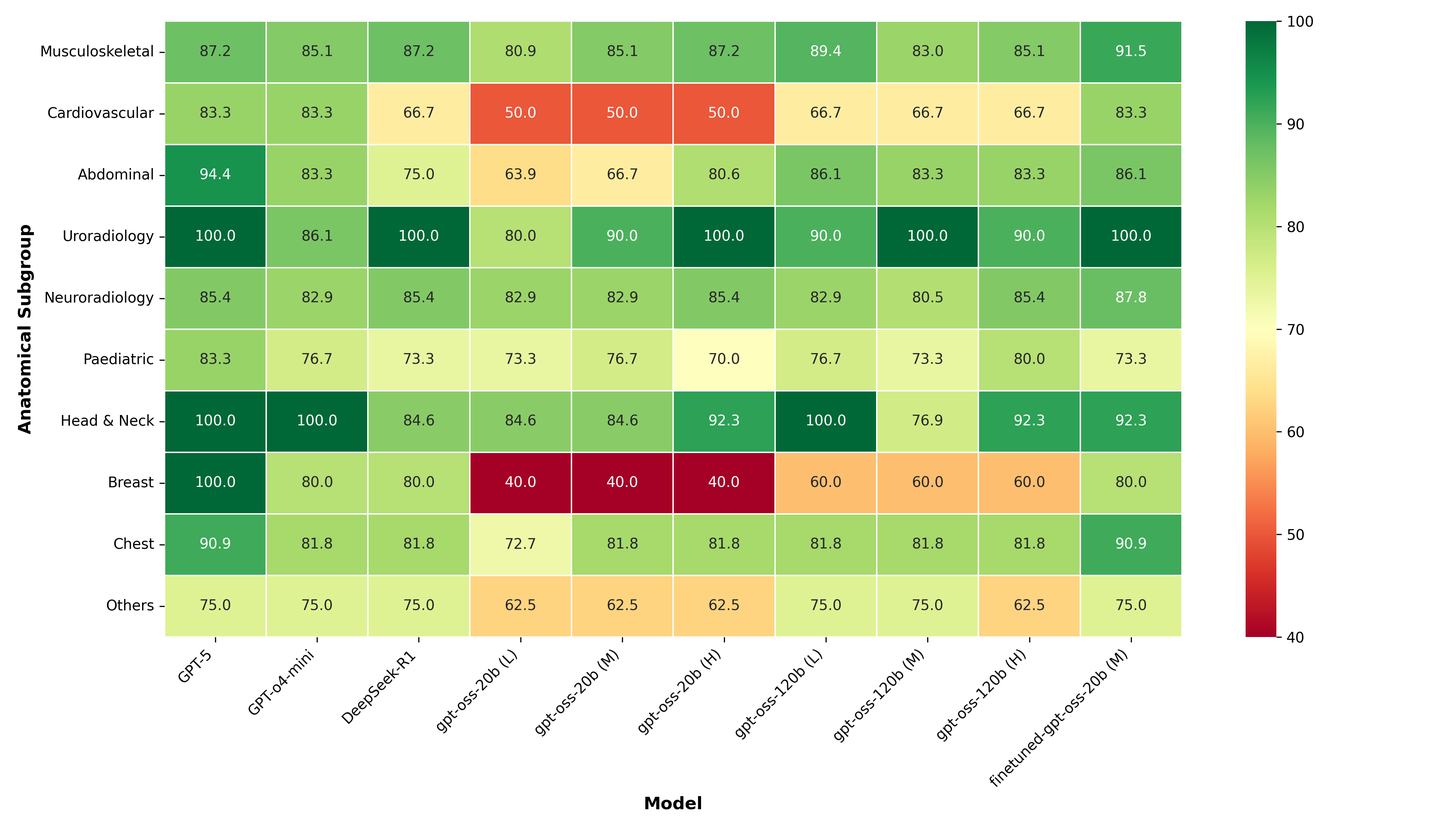
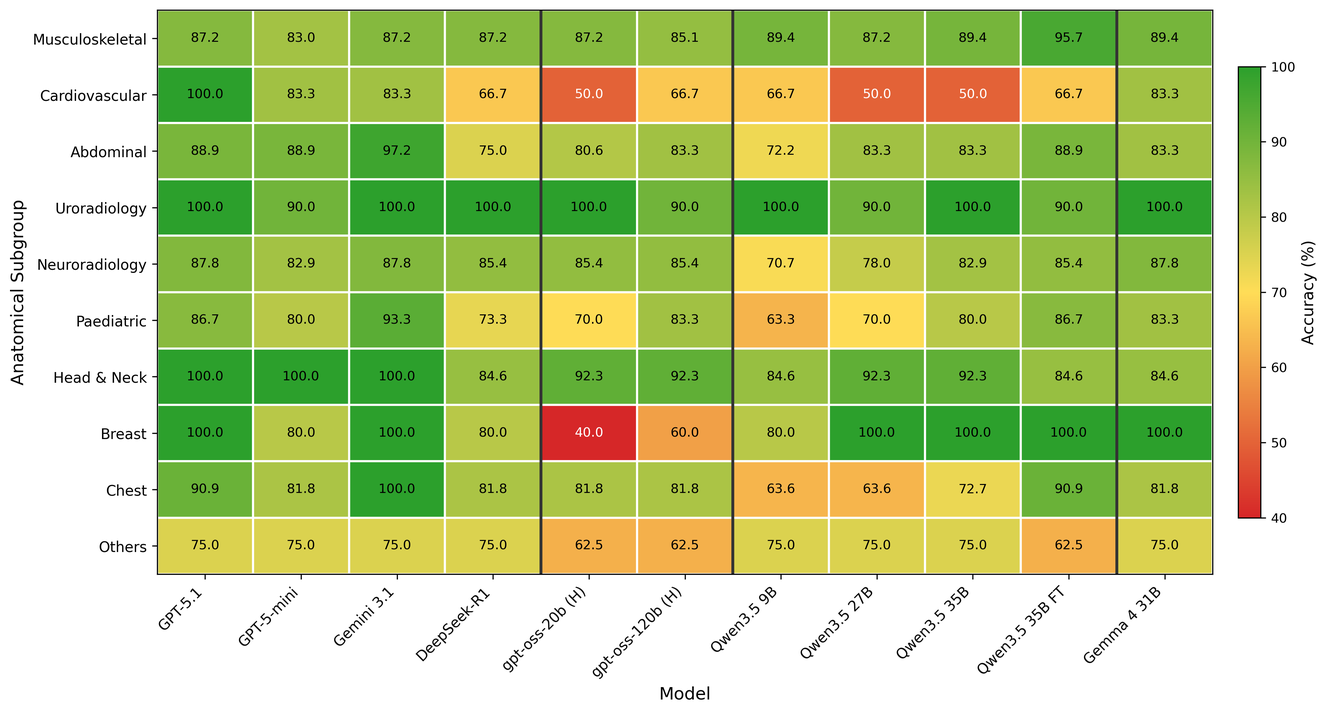
Update paper figures with corrected Qwen data and Gemma 4
Regenerated fig2_combined.png (4-panel: barplot, violin, finetune,
radar) and fig3.png (heatmap) from csvs/final_csvs/ which includes
the Qwen row-shift fix and Gemma 4 31B results.

diff --git a/paper/main.tex b/paper/main.tex
@@ -85,7 +85,7 @@ E-mail: bowang@vectorinstitute.ai}% <-this % stops an unwanted space
 
 \IEEEtitleabstractindextext{%
 \begin{abstract}
-Large language models (LLMs) have rapidly advanced in clinical decision-making, yet the deployment of proprietary systems is hindered by privacy concerns and reliance on cloud-based infrastructure. Open-source alternatives allow local inference but often require large model sizes that limit their use in resource-constrained clinical settings. Here, we benchmark two on-device LLMs, gpt-oss-20b and gpt-oss-120b, across three representative clinical tasks: general disease diagnosis, specialty-specific (ophthalmology) diagnosis and management, and simulation of human expert grading and evaluation. We compare their performance with state-of-the-art proprietary models (GPT-5 and o4-mini) and a leading open-source model (DeepSeek-R1), and we further evaluate the adaptability of on-device systems by fine-tuning gpt-oss-20b on general diagnostic data. Across tasks, gpt-oss models achieve performance comparable to or exceeding DeepSeek-R1 and o4-mini despite being substantially smaller. In addition, fine-tuning remarkably improves the diagnostic accuracy of gpt-oss-20b, enabling it to approach the performance of GPT-5. These findings highlight the potential of on-device LLMs to deliver accurate, adaptable, and privacy-preserving clinical decision support, offering a practical pathway for broader integration of LLMs into routine clinical practice.
+Large language models (LLMs) have rapidly advanced in clinical decision-making, yet the deployment of proprietary systems is hindered by privacy concerns and reliance on cloud-based infrastructure. Open-source alternatives allow local inference but often require large model sizes that limit their use in resource-constrained clinical settings. Here, we benchmark on-device LLMs from the gpt-oss (20b, 120b) and Qwen3.5 (9B, 27B, 35B) families across three representative clinical tasks: general disease diagnosis, specialty-specific (ophthalmology) diagnosis and management, and simulation of human expert grading and evaluation. We compare their performance with state-of-the-art proprietary models (GPT-5.1, GPT-5-mini, and Gemini 3.1 Pro) and a leading open-source model (DeepSeek-R1), and we further evaluate the adaptability of on-device systems by fine-tuning gpt-oss-20b and Qwen3.5-35B on general diagnostic data. Across tasks, on-device models achieve performance comparable to or exceeding DeepSeek-R1 and GPT-5-mini despite being substantially smaller. In addition, fine-tuning remarkably improves diagnostic accuracy, with the fine-tuned Qwen3.5-35B reaching 88.4\% and approaching the proprietary GPT-5.1 (88.9\%). These findings highlight the potential of on-device LLMs to deliver accurate, adaptable, and privacy-preserving clinical decision support, offering a practical pathway for broader integration of LLMs into routine clinical practice.
 \end{abstract}
 
 %%
@@ -119,8 +119,8 @@ These limitations underscore the need for smaller, efficient models that retain 
 
 
 % our contributions 
-The recent advancements in on-device LLMs offer a promising solution to the challenges posed by both large proprietary and open-source models~\cite{zhu2025empowering, evangelista2026graphrag}. In particular, the gpt-oss family~\cite{gpt-oss} represents this new generation of efficient and privacy-preserving architectures. The gpt-oss-20b model and its larger counterpart, gpt-oss-120b, are designed and optimized for deployment on a single consumer GPU with 16GB and 80GB memory, respectively. 
-This study aims to determine whether on-device LLMs can be practically used for clinical decision support. We systematically benchmark gpt-oss-20b and gpt-oss-120b models across three representative tasks: general disease diagnosis, (ophthalmology) specialty-specific disease diagnosis and management, and simulation of human clinician judgement and evaluation (Fig.~\ref{fig:1}). To establish a clear performance landscape, we compare these on-device models against leading proprietary models (GPT-5 and o4-mini) and a strong open-source model (DeepSeek-R1). 
+The recent advancements in on-device LLMs offer a promising solution to the challenges posed by both large proprietary and open-source models~\cite{zhu2025empowering, evangelista2026graphrag}. In particular, the gpt-oss family~\cite{gpt-oss} represents this new generation of efficient and privacy-preserving architectures. The gpt-oss-20b model and its larger counterpart, gpt-oss-120b, are designed and optimized for deployment on a single consumer GPU with 16GB and 80GB memory, respectively. Similarly, the Qwen3.5 family of open-weight models (9B, 27B, and 35B parameters) offers an alternative on-device architecture suitable for resource-constrained deployment.
+This study aims to determine whether on-device LLMs can be practically used for clinical decision support. We systematically benchmark gpt-oss (20b, 120b) and Qwen3.5 (9B, 27B, 35B) models across three representative tasks: general disease diagnosis, (ophthalmology) specialty-specific disease diagnosis and management, and simulation of human clinician judgement and evaluation (Fig.~\ref{fig:1}). To establish a clear performance landscape, we compare these on-device models against leading proprietary models (GPT-5.1, GPT-5-mini, and Gemini 3.1 Pro) and a strong open-source model (DeepSeek-R1). 
 
 
 \begin{figure}[htbp]
@@ -149,21 +149,21 @@ To ensure rigorous zero-shot evaluation and prevent data leakage, all three benc
 
 \begin{figure}[!htbp]
 \centering
-\vspace{-6mm}
+\enlargethispage{2cm}
+\vspace*{-1.5cm}
 % \includegraphics[scale=0.25]{main-imgs/fig2.png}
 % \includegraphics[scale=0.128]{main-imgs/fig2.png}
-\includegraphics[scale=0.128]{main-imgs/fig2_combined.png}
-\vspace{-8mm}
+\includegraphics[width=\textwidth,height=0.92\textheight,keepaspectratio]{main-imgs/fig2_combined.png}
 \caption{\textbf{Zero-shot and fine-tuning performance of on-device LLMs.}
 \textbf{a,} Results of LLM-as-a-generalist: diagnosis accuracy on a wide range of radiological cases (N=207).
 \textbf{b,} Results of LLM-as-a-clinical-judge: violin plots comparing the relative error for disease diagnosis and treatment open-ended question assessment (N=1315).
-\textbf{c,} Fine-tuned Qwen 3.5 35B model accuracy compared to proprietary LLMs on the disease differential diagnosis task.
+\textbf{c,} Fine-tuned Qwen3.5-35B model accuracy compared to proprietary LLMs on the disease differential diagnosis task.
 \textbf{d,} Model performance across 10 radiological sub-specialties.
 }\label{fig:2}
 \end{figure}
 
 \subsection*{On-device LLMs show competitive zero-shot performance}
-Fig.~\ref{fig:2}a compares the diagnostic accuracy of the evaluated models for general disease diagnosis across radiological case reports (Table~\ref{tab:generalist_results}). Among the proprietary frontier models, Gemini 3.1 Pro achieved the highest overall accuracy of 91.8\% (95\% CI: 87.2--94.8\%), followed closely by GPT-5.2 at 90.8\% (95\% CI: 86.1--94.0\%; $p>0.05$). The on-device models demonstrated strong competitiveness relative to these baselines. Specifically, the gpt-oss-120b (L) model achieved an average accuracy of 84.1\% (95\% CI: 78.5--88.4\%), effectively matching the efficient proprietary model GPT-5-mini (84.5\%; 95\% CI: 79.0--88.8\%; $p>0.05$) and surpassing the leading open-source model DeepSeek-R1 (81.6\%; 95\% CI: 75.8--86.3\%). Furthermore, the highly efficient gpt-oss-20b (H) model secured an accuracy of 80.7\% (95\% CI: 74.8--85.5\%), matching the performance of the significantly larger DeepSeek-R1 ($p>0.05$). Among the Qwen3.5 on-device models, the 27B variant achieved the highest accuracy at 71.5\% (95\% CI: 65.0--77.2\%), statistically comparable to gpt-oss-20b (L) (74.4\%; $p>0.05$).
+Fig.~\ref{fig:2}a compares the diagnostic accuracy of the evaluated models for general disease diagnosis across radiological case reports (Table~\ref{tab:generalist_results}). Among the proprietary frontier models, Gemini 3.1 Pro achieved the highest overall accuracy of 91.3\% (95\% CI: 86.7--94.4\%), followed by GPT-5.1 at 88.9\% (95\% CI: 83.9--92.5\%). The on-device models demonstrated strong competitiveness relative to these baselines. Specifically, the gpt-oss-120b (H) model achieved an accuracy of 83.1\% (95\% CI: 77.4--87.6\%), while the highly efficient gpt-oss-20b (H) model secured 80.7\% (95\% CI: 74.8--85.5\%), matching the performance of the significantly larger DeepSeek-R1 (81.6\%; 95\% CI: 75.8--86.3\%; $p>0.05$). Among the Qwen3.5 on-device models, the 35B variant achieved the highest base accuracy at 84.5\% (95\% CI: 79.0--88.8\%), matching GPT-5-mini (84.1\%; 95\% CI: 78.5--88.4\%; $p>0.05$) and exceeding DeepSeek-R1. The Qwen3.5 27B model achieved 80.2\% (95\% CI: 74.2--85.1\%), comparable to both gpt-oss-20b (H) and DeepSeek-R1 ($p>0.05$), while the smallest 9B variant reached 75.8\% (95\% CI: 69.6--81.2\%).
 
 \begin{table}[!htbp]
 \centering
@@ -172,37 +172,36 @@ Fig.~\ref{fig:2}a compares the diagnostic accuracy of the evaluated models for g
 \caption{\textbf{LLM-as-a-Generalist Task: Comparative diagnostic accuracy (\%) across radiological anatomical subgroups.}
 Performance is evaluated using self-consistency majority voting. The best result per row is \textbf{bolded}. Full 95\% CIs are provided in Supplementary Table~1.}
 \label{tab:generalist_results}
-\begin{tabular}{l ccc @{\hskip 6pt} c @{\hskip 6pt} ccc @{\hskip 6pt} ccc @{\hskip 6pt} ccc}
+\begin{tabular}{l ccc @{\hskip 6pt} c @{\hskip 6pt} cc @{\hskip 6pt} cccc}
 \toprule
-& \multicolumn{3}{c}{\textbf{Proprietary}} & \textbf{Open} & \multicolumn{3}{c}{\textbf{gpt-oss-20b}} & \multicolumn{3}{c}{\textbf{gpt-oss-120b}} & \multicolumn{3}{c}{\textbf{Qwen3.5}} \\
-\cmidrule(lr){2-4} \cmidrule(lr){5-5} \cmidrule(lr){6-8} \cmidrule(lr){9-11} \cmidrule(lr){12-14}
+& \multicolumn{3}{c}{\textbf{Proprietary}} & \textbf{Open} & \multicolumn{2}{c}{\textbf{gpt-oss}} & \multicolumn{4}{c}{\textbf{Qwen3.5}} \\
+\cmidrule(lr){2-4} \cmidrule(lr){5-5} \cmidrule(lr){6-7} \cmidrule(lr){8-11}
 \textbf{Category} &
-\textbf{GPT-5.2} & \textbf{GPT-5-mini} & \textbf{Gemini-3.1} & \textbf{DS-R1} &
-\textbf{L} & \textbf{M} & \textbf{H} &
-\textbf{L} & \textbf{M} & \textbf{H} &
-\textbf{35B} & \textbf{27B} & \textbf{9B} \\
+\textbf{GPT-5.1} & \textbf{GPT-5-mini} & \textbf{Gemini-3.1} & \textbf{DS-R1} &
+\textbf{20b} & \textbf{120b} &
+\textbf{9B} & \textbf{27B} & \textbf{35B} & \textbf{35B-FT} \\
 \midrule
-Musculoskeletal   & \acc{87.2} & \acc{83.0} & \acc{87.2} & \acc{87.2} & \acc{80.9} & \acc{85.1} & \acc{87.2} & \best{\acc{89.4}} & \acc{83.0} & \acc{85.1} & \acc{72.3} & \acc{74.5} & \acc{76.6} \\
-Cardiovascular    & \best{\acc{100.0}} & \acc{83.3} & \acc{83.3} & \acc{66.7} & \acc{50.0} & \acc{50.0} & \acc{50.0} & \acc{66.7} & \acc{66.7} & \acc{66.7} & \acc{50.0} & \acc{50.0} & \acc{66.7} \\
-Abdominal         & \acc{94.4} & \acc{88.9} & \best{\acc{97.2}} & \acc{75.0} & \acc{63.9} & \acc{66.7} & \acc{80.6} & \acc{86.1} & \acc{83.3} & \acc{83.3} & \acc{72.2} & \acc{80.6} & \acc{69.4} \\
-Uroradiology      & \best{\acc{100.0}} & \acc{90.0} & \best{\acc{100.0}} & \best{\acc{100.0}} & \acc{80.0} & \acc{90.0} & \best{\acc{100.0}} & \acc{90.0} & \best{\acc{100.0}} & \acc{90.0} & \acc{80.0} & \acc{80.0} & \acc{90.0} \\
-Neuroradiology    & \best{\acc{87.8}} & \acc{82.9} & \best{\acc{87.8}} & \acc{85.4} & \acc{82.9} & \acc{82.9} & \acc{85.4} & \acc{82.9} & \acc{80.5} & \acc{85.4} & \acc{56.1} & \acc{61.0} & \acc{53.7} \\
-Paediatric        & \acc{90.0} & \acc{80.0} & \best{\acc{93.3}} & \acc{73.3} & \acc{73.3} & \acc{76.7} & \acc{70.0} & \acc{76.7} & \acc{73.3} & \acc{80.0} & \acc{50.0} & \acc{70.0} & \acc{63.3} \\
-Head \& neck      & \best{\acc{100.0}} & \best{\acc{100.0}} & \best{\acc{100.0}} & \acc{84.6} & \acc{84.6} & \acc{84.6} & \acc{92.3} & \best{\acc{100.0}} & \acc{76.9} & \acc{92.3} & \acc{84.6} & \acc{84.6} & \acc{76.9} \\
-Breast            & \best{\acc{100.0}} & \acc{80.0} & \best{\acc{100.0}} & \acc{80.0} & \acc{40.0} & \acc{40.0} & \acc{40.0} & \acc{60.0} & \acc{60.0} & \acc{60.0} & \acc{60.0} & \acc{80.0} & \acc{60.0} \\
-Chest             & \acc{90.9} & \acc{81.8} & \best{\acc{100.0}} & \acc{81.8} & \acc{72.7} & \acc{81.8} & \acc{81.8} & \acc{81.8} & \acc{81.8} & \acc{81.8} & \acc{63.6} & \acc{63.6} & \acc{63.6} \\
-Others            & \best{\acc{75.0}} & \best{\acc{75.0}} & \best{\acc{75.0}} & \best{\acc{75.0}} & \acc{62.5} & \acc{62.5} & \acc{62.5} & \best{\acc{75.0}} & \best{\acc{75.0}} & \acc{62.5} & \acc{50.0} & \acc{62.5} & \acc{62.5} \\
+Musculoskeletal   & \acc{87.2} & \acc{83.0} & \acc{87.2} & \acc{87.2} & \acc{87.2} & \acc{85.1} & \acc{89.4} & \acc{87.2} & \acc{89.4} & \best{\acc{95.7}} \\
+Cardiovascular    & \best{\acc{83.3}} & \acc{66.7} & \acc{66.7} & \acc{66.7} & \acc{50.0} & \acc{66.7} & \acc{50.0} & \acc{50.0} & \acc{66.7} & \best{\acc{83.3}} \\
+Abdominal         & \acc{88.9} & \acc{88.9} & \best{\acc{97.2}} & \acc{75.0} & \acc{80.6} & \acc{83.3} & \acc{72.2} & \acc{83.3} & \acc{83.3} & \acc{88.9} \\
+Uroradiology      & \best{\acc{100.0}} & \acc{90.0} & \best{\acc{100.0}} & \best{\acc{100.0}} & \best{\acc{100.0}} & \acc{90.0} & \best{\acc{100.0}} & \acc{90.0} & \best{\acc{100.0}} & \acc{90.0} \\
+Neuroradiology    & \best{\acc{87.8}} & \acc{82.9} & \best{\acc{87.8}} & \acc{85.4} & \acc{85.4} & \acc{85.4} & \acc{70.7} & \acc{78.0} & \acc{82.9} & \acc{85.4} \\
+Paediatric        & \acc{86.7} & \acc{80.0} & \best{\acc{93.3}} & \acc{73.3} & \acc{70.0} & \acc{83.3} & \acc{63.3} & \acc{70.0} & \acc{80.0} & \acc{86.7} \\
+Head \& neck      & \best{\acc{100.0}} & \best{\acc{100.0}} & \best{\acc{100.0}} & \acc{84.6} & \acc{92.3} & \acc{92.3} & \acc{84.6} & \acc{92.3} & \acc{92.3} & \acc{84.6} \\
+Breast            & \best{\acc{100.0}} & \acc{80.0} & \best{\acc{100.0}} & \acc{80.0} & \acc{40.0} & \acc{60.0} & \acc{80.0} & \best{\acc{100.0}} & \best{\acc{100.0}} & \best{\acc{100.0}} \\
+Chest             & \acc{90.9} & \acc{81.8} & \best{\acc{100.0}} & \acc{81.8} & \acc{81.8} & \acc{81.8} & \acc{63.6} & \acc{63.6} & \acc{72.7} & \acc{90.9} \\
+Others            & \best{\acc{75.0}} & \best{\acc{75.0}} & \best{\acc{75.0}} & \best{\acc{75.0}} & \acc{62.5} & \acc{62.5} & \best{\acc{75.0}} & \best{\acc{75.0}} & \best{\acc{75.0}} & \acc{62.5} \\
 \midrule
-\textbf{Average}  & \acc{90.8} & \acc{84.5} & \best{\acc{91.8}} & \acc{81.6} & \acc{74.4} & \acc{77.3} & \acc{80.7} & \acc{84.1} & \acc{80.2} & \acc{82.6} & \acc{64.7} & \acc{71.5} & \acc{67.6} \\
+\textbf{Average}  & \acc{88.9} & \acc{84.1} & \best{\acc{91.3}} & \acc{81.6} & \acc{80.7} & \acc{83.1} & \acc{75.8} & \acc{80.2} & \acc{84.5} & \acc{88.4} \\
 \bottomrule
 \end{tabular}
 \end{table}
 
 
-Fig.~\ref{fig:2}b presents the model performance of the LLM-as-a-specialist task on the ophthalmology QA dataset (Table~\ref{tab:ophthalmology_results}). The open-source model DeepSeek-R1 achieved the highest overall accuracy of 79.2\% (95\% CI: 71.5--85.3\%), demonstrating particularly strong capabilities in diagnosis (92.3\%; 95\% CI: 79.7--97.3\%) and management (73.6\%; 95\% CI: 63.7--81.6\%). Remarkably, the on-device gpt-oss-120b (M) model secured the second-highest rank with an overall accuracy of 77.7\% (95\% CI: 69.8--84.0\%), surpassing the proprietary GPT-5.1 (76.9\%) and GPT-5-mini (67.7\%) baselines. This performance underscores the capacity of locally deployed large models to rival state-of-the-art proprietary systems in specialty-specific medical reasoning. While the smaller gpt-oss-20b variants showed a performance gap, with the best-performing gpt-oss-20b (H) achieving 66.2\% (95\% CI: 57.7--73.7\%), they remained competitive in specific subtasks (e.g., Refractive Disorders or Strabismus). Across all evaluated architectures, models consistently demonstrated higher performance in diagnosis compared to patient management, reflecting the increased complexity of treatment planning in specialty care.
+Table~\ref{tab:ophthalmology_results} presents the model performance of the LLM-as-a-specialist task on the ophthalmology QA dataset (Table~\ref{tab:ophthalmology_results}). The open-source model DeepSeek-R1 achieved the highest overall accuracy of 79.2\% (95\% CI: 71.5--85.3\%), demonstrating particularly strong capabilities in diagnosis (92.3\%; 95\% CI: 79.7--97.3\%) and management (73.6\%; 95\% CI: 63.7--81.6\%). Remarkably, the on-device gpt-oss-120b (M) model secured the second-highest rank with an overall accuracy of 77.7\% (95\% CI: 69.8--84.0\%), surpassing the proprietary GPT-5.1 (76.9\%) and GPT-5-mini (67.7\%) baselines. This performance underscores the capacity of locally deployed large models to rival state-of-the-art proprietary systems in specialty-specific medical reasoning. While the smaller gpt-oss-20b variants showed a performance gap, with the best-performing gpt-oss-20b (H) achieving 66.2\% (95\% CI: 57.7--73.7\%), they remained competitive in specific subtasks (e.g., Refractive Disorders or Strabismus). Across all evaluated architectures, models consistently demonstrated higher performance in diagnosis compared to patient management, reflecting the increased complexity of treatment planning in specialty care.
 
 
-Fig.~\ref{fig:2}c shows the evaluation results of models acting as clinical judges (Table~\ref{tab:specialty_results_with_total}), measured by the median relative error (interquartile range) between the model's score and human expert consensus. The proprietary GPT-5 achieved the lowest median error for treatment-related judgments (0.00, IQR: -0.33–0.50), demonstrating high alignment with human experts across specialties such as Internal Medicine and Pediatrics. However, for diagnostic assessment, GPT-5 exhibited a tendency to underestimate performance (median error: -0.50, IQR: -1.00–0.00). In contrast, the on-device gpt-oss-120b variants demonstrated high stability, achieving a median error of 0.00 (IQR: -0.50–0.25) across all diagnostic tasks, significantly outperforming o4-mini ($p<0.01$), which showed a larger deviation (-1.00, IQR: -1.83–0.17). Among the open-source models, DeepSeek-R1 and the gpt-oss-20b series generally aligned well with human scores but displayed slightly higher variability in treatment evaluations compared to the larger 120b models. When stratified by disease frequency, the gpt-oss-120b models maintained consistent accuracy across ``Rare'', ``Less Frequent'', and ``Frequent'' conditions, suggesting that larger on-device models can offer robust, human-aligned evaluation capabilities.
+Fig.~\ref{fig:2}b shows the evaluation results of models acting as clinical judges (Table~\ref{tab:specialty_results_with_total}), measured by the median relative error (interquartile range) between the model's consensus score and human expert consensus. For diagnostic assessment, GPT-5.1 and Gemini 3.1 achieved a median error of 0.00 (IQR: -0.50--0.10 and 0.00--0.50, respectively), while GPT-5-mini exhibited more pronounced systematic underestimation (median error: -0.50, IQR: -1.10--0.00). The on-device gpt-oss-120b (H) demonstrated comparable alignment, achieving a median diagnostic error of 0.00 (IQR: -0.50--0.27). Notably, all three Qwen3.5 models also achieved a median diagnostic error of 0.00, matching the best-performing proprietary models in alignment with human expert scores. For treatment-related judgments, the gpt-oss models showed the lowest median errors (gpt-oss-20b H: 0.17, IQR: -0.29--0.50; gpt-oss-120b H: 0.17, IQR: -0.17--0.50), while GPT-5-mini (0.25), DeepSeek-R1 (0.25), and GPT-5.1 (0.33) showed moderate overestimation. The Qwen3.5 and Gemini models showed higher treatment errors (median 0.50), reflecting the open-ended and subjective nature of treatment evaluation.
 
 
 \begin{table}[!htbp]
@@ -242,13 +241,9 @@ Fig.~\ref{fig:2}c shows the evaluation results of models acting as clinical judg
 \end{tabular}
 \end{table}
 
-Fig.~\ref{fig:2}c shows the evaluation results of models acting as clinical judges (Table~\ref{tab:specialty_results_with_total}), measured by the median relative error (interquartile range) between the model's score and human expert consensus. The proprietary GPT-5.1 achieved the lowest median error for treatment-related judgments (0.00, IQR: -0.33--0.50), demonstrating high alignment with human experts across specialties such as Internal Medicine and Pediatrics. However, for diagnostic assessment, GPT-5.1 exhibited a tendency to underestimate performance (median error: -0.50, IQR: -1.00--0.00). In contrast, the on-device gpt-oss-120b variants demonstrated high stability, achieving a median error of 0.00 (IQR: -0.50--0.25) across all diagnostic tasks, significantly outperforming o4-mini ($p<0.01$), which showed a larger deviation (-1.00, IQR: -1.83--0.17). Among the open-source models, DeepSeek-R1 and the gpt-oss-20b series generally aligned well with human scores but displayed slightly higher variability in treatment evaluations compared to the larger 120b models. When stratified by disease frequency, the gpt-oss-120b models maintained consistent accuracy across ``Rare'', ``Less Frequent'', and ``Frequent'' conditions, suggesting that larger on-device models can offer robust, human-aligned evaluation capabilities.
-
-
-
-Model reliability was further assessed using standard agreement and stability metrics. 
-Inter-model agreement, measured using Cohen’s $\kappa$, was moderate for diagnostic reasoning tasks ($\kappa \approx 0.45$–$0.87$) and lower for treatment evaluation tasks ($\kappa \approx 0.20$–$0.43$), reflecting the open-ended and subjective nature of clinical management decisions. 
-In contrast, intra-model stability across repeated inference runs was high. For diagnostic judgment tasks, the Intraclass Correlation Coefficient (ICC) indicated excellent reliability across all models (ICC $\approx 0.91$–$0.97$), while treatment scoring showed greater variability, with proprietary models exhibiting higher stability than open and on-device models. 
+Model reliability was further assessed using standard agreement and stability metrics.
+Inter-model agreement on clinical judgment tasks, measured using linear weighted Cohen’s $\kappa$, was moderate for diagnostic scoring ($\kappa_w \approx 0.29$--$0.74$) and lower for treatment evaluation ($\kappa_w \approx 0.11$--$0.45$), reflecting the open-ended and subjective nature of clinical management decisions.
+Intra-model stability across repeated inference runs was high. For diagnostic judgment tasks, the Intraclass Correlation Coefficient (ICC) indicated excellent reliability across all models (ICC $\approx 0.82$--$0.99$), while treatment scoring showed greater variability (ICC $\approx 0.70$--$0.99$), with proprietary models exhibiting higher stability than open and on-device models.
 Together, these results support the use of consensus-based aggregation to mitigate stochastic variability and produce reliable clinical outputs.
 
 \begin{table}[!htbp]
@@ -259,9 +254,9 @@ Together, these results support the use of consensus-based aggregation to mitiga
 \label{tab:specialty_results_with_total}
 \begin{tabular}{ll ccc @{\hskip 6pt} c @{\hskip 6pt} ccc @{\hskip 6pt} ccc @{\hskip 6pt} ccc}
 \toprule
-& & \multicolumn{3}{c}{\textbf{Proprietary}} & \textbf{Open} & \multicolumn{3}{c}{\textbf{gpt-oss-20b}} & \multicolumn{3}{c}{\textbf{gpt-oss-120b}} & \multicolumn{3}{c}{\textbf{qwen3.5}} \\
+& & \multicolumn{3}{c}{\textbf{Proprietary}} & \textbf{Open} & \multicolumn{3}{c}{\textbf{gpt-oss-20b}} & \multicolumn{3}{c}{\textbf{gpt-oss-120b}} & \multicolumn{3}{c}{\textbf{Qwen3.5}} \\
 \cmidrule(lr){3-5} \cmidrule(lr){6-6} \cmidrule(lr){7-9} \cmidrule(lr){10-12} \cmidrule(lr){13-15}
-\textbf{Type} & \textbf{Specialty} & \textbf{GPT-5.1} & \textbf{Gemini} & \textbf{5.1-mini} & \textbf{DS-R1} & \textbf{L} & \textbf{M} & \textbf{H} & \textbf{L} & \textbf{M} & \textbf{H} & \textbf{9B} & \textbf{27B} & \textbf{35B} \\
+\textbf{Type} & \textbf{Specialty} & \textbf{GPT-5.1} & \textbf{Gemini-3.1} & \textbf{GPT-5-mini} & \textbf{DS-R1} & \textbf{L} & \textbf{M} & \textbf{H} & \textbf{L} & \textbf{M} & \textbf{H} & \textbf{9B} & \textbf{27B} & \textbf{35B} \\
 \midrule
 \multirow{6}{*}{\rotatebox{90}{\textbf{Treatment}}}
 & Gynecology & 0.25 & 0.50 & 0.25 & 0.38 & 0.17 & 0.17 & 0.17 & \best{0.00} & 0.17 & \best{0.00} & 0.50 & 0.50 & 0.50 \\
@@ -286,10 +281,12 @@ Together, these results support the use of consensus-based aggregation to mitiga
 
 
 \subsection*{Fine-tuning substantially improves the diagnostic capability of on-device LLMs}
-To assess the adaptability of on-device LLMs for clinical decision support, we fine-tuned the gpt-oss-20b (M) model on the general disease diagnosis dataset (Methods). As shown in Fig.~\ref{fig:2}d (Supplementary Fig. 1--3), the fine-tuned model produced a marked improvement in diagnostic accuracy, increasing from 77.3\% (95\% CI: 71.1--82.5\%) in the base model to 86.5\% (95\% CI: 81.1--90.5\%) after adaptation. This performance not only exceeded the accuracy of DeepSeek-R1 (81.6\%, 95\% CI: 75.8--86.3\%) and GPT-5-mini (84.5\%, 95\% CI: 79.0--88.8\%) but also approached that of the state-of-the-art proprietary GPT-5.2 model (90.8\%, 95\% CI: 86.1--94.0\%).
+To assess the adaptability of on-device LLMs for clinical decision support, we fine-tuned the gpt-oss-20b (M) model on the general disease diagnosis dataset (Methods). As shown in Fig.~\ref{fig:2}c (Supplementary Fig. 1--3), the fine-tuned model produced a marked improvement in diagnostic accuracy, increasing from 77.3\% (95\% CI: 71.1--82.5\%) in the base model to 86.5\% (95\% CI: 81.1--90.5\%) after adaptation. This performance exceeded the accuracy of DeepSeek-R1 (81.6\%, 95\% CI: 75.8--86.3\%) and GPT-5-mini (84.1\%, 95\% CI: 78.5--88.4\%) and approached that of GPT-5.1 (88.9\%, 95\% CI: 83.9--92.5\%).
+
+In parallel, fine-tuning the Qwen3.5-35B model using reasoning data curated by the larger Qwen3.5-122B yielded a substantial improvement from 84.5\% (95\% CI: 79.0--88.8\%) to 88.4\% (95\% CI: 83.3--92.1\%), a gain of 3.9 percentage points (Fig.~\ref{fig:2}c). This fine-tuned accuracy closely rivals GPT-5.1 (88.9\%; $p>0.05$) and surpasses both GPT-5-mini and DeepSeek-R1, demonstrating that the family-matched training data curation strategy generalizes across model architectures.
 
 To illustrate the impact of fine-tuning on both diagnostic accuracy and reasoning quality, we present three case studies (Supplementary Cases 1--3). Case 1 (Von Hippel-Lindau syndrome) shows fine-tuning enhances reasoning quality even when base models reach correct diagnoses: the base model provided superficial comparisons with uncertain statements, while the fine-tuned model employed systematic multi-system integration with detailed syndrome comparison and definitive synthesis. Cases 2--3 demonstrate error correction through recognition of critical clinical features. 
-Furthermore, the sub-speciality-wise analysis (Fig.~\ref{fig:2}e, Fig.~\ref{fig:3}) reveals that fine-tuning effectively mitigates domain-specific weaknesses observed in base models, particularly in specialized areas such as cardiovascular and breast imaging.
+Furthermore, the sub-speciality-wise analysis (Fig.~\ref{fig:2}d, Fig.~\ref{fig:3}) reveals that fine-tuning effectively mitigates domain-specific weaknesses observed in base models, particularly in specialized areas such as cardiovascular and breast imaging.
 
 \begin{figure}[ht]
 \centering
@@ -307,7 +304,7 @@ Color intensity represents accuracy (Green=High, Red=Low). Base on-device models
 
 % The combination of quantitative superiority and qualitative reasoning capabilities---as demonstrated through the systematic elimination logic and adaptive analytical structures in Supplementary Cases 1--3---establishes that targeted domain adaptation can transform lightweight on-device models into clinically viable diagnostic support tools. These findings collectively demonstrate that parameter efficiency and reasoning quality are not mutually exclusive, and that appropriately fine-tuned smaller models can deliver performance comparable to substantially larger proprietary systems while maintaining the advantages of local deployment and data privacy.
 
-The substantial performance gain demonstrates that targeted domain adaptation can effectively compensate for the smaller scale of on-device models. Even with medium reasoning effort, the fine-tuned gpt-oss-20b model exhibits diagnostic accuracy comparable to significantly larger proprietary systems while retaining the advantages of local deployability and privacy preservation. These findings highlight the strong potential of lightweight, fine-tuned on-device LLMs to provide high-quality clinical decision support in settings with limited computational resources.
+The substantial performance gains across both model families demonstrate that targeted domain adaptation can effectively compensate for the smaller scale of on-device models. The fine-tuned gpt-oss-20b and Qwen3.5-35B models exhibit diagnostic accuracy comparable to significantly larger proprietary systems while retaining the advantages of local deployability and privacy preservation. These findings highlight the strong potential of lightweight, fine-tuned on-device LLMs to provide high-quality clinical decision support in settings with limited computational resources.
 
 
 
@@ -318,7 +315,7 @@ The substantial performance gain demonstrates that targeted domain adaptation ca
 
 \subsection*{Dataset curation and pre-processing}
 Case reports for the LLM-as-a-generalist task were curated from the European Society of Radiology (Eurorad)~\cite{kottlors2025eurorad}  (\url{https://www.eurorad.org/}) database across a broad spectrum of subspecialties, including musculoskeletal, cardiovascular, abdominal, uroradiology, neuroradiology, paediatric, head and neck, breast, and chest imaging.
-To strictly mitigate data leakage, the test set was restricted to cases published in 2025, postdating the training cut-off of the evaluated models. From an initial pool of 350 prospective test cases, we employed GPT-5 to screen and exclude reports containing explicit diagnostic disclosures in the description. Historical cases published prior to 2025 were allocated for fine-tuning, yielding a final dataset comprising 1,895 training cases and 207 independent test cases.
+To strictly mitigate data leakage, the test set was restricted to cases published in 2025, postdating the training cut-off of the evaluated models. From an initial pool of 350 prospective test cases, we employed GPT-5.1 to screen and exclude reports containing explicit diagnostic disclosures in the description. Historical cases published prior to 2025 were allocated for fine-tuning, yielding a final dataset comprising 1,895 training cases and 207 independent test cases.
 
 Cases for the LLM-as-a-specialist task were based on the recent ophthalmology multiple-choice question dataset~\cite{ophthalmologyQA}. It contains 130 questions covering six topics: anterior segment diseases, external eye/orbital diseases, glaucoma, ocular trauma, refractive disorders/strabismus, and retinal diseases. Each question has one to six correct answers from five to nine answer choices.
 
@@ -342,14 +339,14 @@ The LLM-as-a-clinical-judge task evaluated the models' ability to simulate exper
 
 We benchmarked three distinct categories of models to represent the current landscape of LLMs:
 
-\textbf{Proprietary Frontier Models (GPT-5 and o4-mini).}
-We selected the latest snapshots of OpenAI’s premier reasoning models, \texttt{gpt-5-2025-08-07} and \texttt{o4-mini-2025-04-16}. These models represent the current state-of-the-art in closed-source reasoning, utilizing hidden chain-of-thought (CoT) processing to plan responses before output generation. Inference was conducted via the OpenAI Responses API. To evaluate the impact of inference-time compute, we modulated the \texttt{reasoning\_effort} parameter (\texttt{low}, \texttt{medium}, \texttt{high}). For all tasks, we utilized the default \texttt{medium} effort setting.
+\textbf{Proprietary Frontier Models (GPT-5.1, GPT-5-mini, and Gemini 3.1 Pro).}
+We selected OpenAI’s \texttt{gpt-5.1-2025-11-13} and \texttt{gpt-5-mini} reasoning models, alongside Google’s \texttt{gemini-3.1-pro}. These models represent the current state-of-the-art in closed-source reasoning. Inference for OpenAI models was conducted via the OpenAI Responses API, while Gemini 3.1 Pro was accessed through the Google AI API. To evaluate the impact of inference-time compute on OpenAI models, we modulated the \texttt{reasoning\_effort} parameter (\texttt{low}, \texttt{medium}, \texttt{high}). For all tasks, we utilized the default \texttt{medium} effort setting.
 
 \textbf{Open-Source State-of-the-Art Model (DeepSeek-R1).}
 To represent the pinnacle of open-source capability, we evaluated the 671-billion parameter \texttt{DeepSeek-R1-0528}. This model utilizes large-scale reinforcement learning to optimize reasoning paths and is currently the strongest non-proprietary baseline available. Inference was performed via the OpenRouter API. We utilized a context window of 8{,}192 tokens to strictly enforce the capture of the model's native reinforcement-learning-aligned reasoning traces. 
 
-\textbf{On-Device Models (gpt-oss-20b and gpt-oss-120b).}
-The primary focus of this study is the \texttt{gpt-oss} family, a new generation of efficient, privacy-preserving architectures designed for local deployment. We evaluated both the 20-billion parameter variant (optimized for consumer GPUs) and the 120-billion parameter variant to assess the trade-off between computational efficiency and diagnostic reasoning capability. The gpt-oss models were evaluated using the Hugging Face Inference Router, targeting the Fireworks AI provider for the 20b model and Cerebras for the 120b model to maximize throughput. Similar to the proprietary OpenAI models, we modulated the \texttt{reasoning\_effort} parameter (\texttt{low}, \texttt{medium}, \texttt{high}), in this case through the system prompt (e.g. by appending ``Reasoning: high'' for the highest level of reasoning) to trigger extended chain-of-thought generation patterns. Output parsing relied on a custom regex extractor to identify valid answer sequences within the generated text.
+\textbf{On-Device Models (gpt-oss and Qwen3.5).}
+The primary focus of this study is on-device LLMs from two model families. From the \texttt{gpt-oss} family, we evaluated both the 20-billion parameter variant (optimized for consumer GPUs) and the 120-billion parameter variant. The gpt-oss models were evaluated using the Hugging Face Inference Router, targeting the Fireworks AI provider for the 20b model and Cerebras for the 120b model to maximize throughput. Similar to the proprietary OpenAI models, we modulated the \texttt{reasoning\_effort} parameter (\texttt{low}, \texttt{medium}, \texttt{high}) through the system prompt to trigger extended chain-of-thought generation patterns. From the Qwen3.5 family, we evaluated three model sizes: 9B, 27B, and 35B parameters, as well as a fine-tuned 35B variant. The Qwen3.5 models were accessed via the Hugging Face Inference Router with high reasoning effort. Output parsing relied on a custom regex extractor to identify valid answer sequences within the generated text.
 
 
 
@@ -394,11 +391,11 @@ We further evaluated both the internal stability of the models and agreement bet
 
 This study systematically evaluates the capabilities of on-device large language models across three representative clinical tasks: general diagnosis, specialty-level reasoning, and simulation of expert judgment. Across all settings, the gpt-oss and Qwen3.5 models demonstrate clinically meaningful performance despite their substantially smaller scale relative to frontier proprietary models (such as GPT-5.1, GPT-5-mini, and Gemini 3.1 Pro), underscoring the feasibility of deploying lightweight LLMs directly within healthcare institutions.
 
-In the general disease diagnosis task, on-device models achieved strong zero-shot performance, showing that compact architectures can capture the broad clinical reasoning patterns required for diagnosis. Moreover, in the ophthalmology specialty task, the on-device gpt-oss-120b model outperformed both GPT-5.1 and GPT-5-mini while ranking third overall behind Gemini 3.1 Pro and DeepSeek-R1. This is noteworthy given that most existing clinical LLM evaluations have focused on large cloud-based models~\cite{zhang2025ophthreview, bhayana2024radiology, schramm2025multimodal}, leaving open the question of whether smaller locally deployable systems can achieve comparable levels of generalization. Our findings indicate that modern on-device architectures can support robust performance in common diagnostic scenarios without requiring external computation or data transfer.
+In the general disease diagnosis task, on-device models achieved strong zero-shot performance, showing that compact architectures can capture the broad clinical reasoning patterns required for diagnosis. Notably, the Qwen3.5-35B base model matched the proprietary GPT-5-mini (84.5\% vs 84.1\%), while the 27B variant (80.2\%) performed comparably to DeepSeek-R1 (81.6\%), demonstrating that multiple on-device architectures can independently achieve strong clinical reasoning. Moreover, in the ophthalmology specialty task, the on-device gpt-oss-120b model outperformed both GPT-5.1 and GPT-5-mini while ranking third overall behind Gemini 3.1 Pro and DeepSeek-R1. This is noteworthy given that most existing clinical LLM evaluations have focused on large cloud-based models~\cite{zhang2025ophthreview, bhayana2024radiology, schramm2025multimodal}, leaving open the question of whether smaller locally deployable systems can achieve comparable levels of generalization. Our findings indicate that modern on-device architectures can support robust performance in common diagnostic scenarios without requiring external computation or data transfer.
 
-The ability of LLMs to act as "clinical judges" is critical for scalable quality assurance and automated evaluation~\cite{kocaman2025clever, croxford2025evaluating}. Our results indicate that on-device models can align closely with human expert consensus, often exhibiting greater stability than efficient proprietary alternatives like GPT-5-mini. This suggests that compact models can support evaluative tasks that require not only factual knowledge but also sensitivity to clinical reasoning standards and rubric-based assessment criteria. This capability is essential for deploying LLMs as automated auditors or second-opinion systems in clinical workflows~\cite{humaneval2025llmjudge, genovese2026artificial}.
+The ability of LLMs to act as "clinical judges" is critical for scalable quality assurance and automated evaluation~\cite{kocaman2025clever, croxford2025evaluating}. Our results indicate that on-device models can align closely with human expert consensus, often exhibiting greater stability than efficient proprietary alternatives like GPT-5-mini. All three Qwen3.5 models achieved median diagnostic errors of 0.00, matching the best-performing models and confirming that lightweight architectures can reliably simulate expert judgment. This suggests that compact models can support evaluative tasks that require not only factual knowledge but also sensitivity to clinical reasoning standards and rubric-based assessment criteria. This capability is essential for deploying LLMs as automated auditors or second-opinion systems in clinical workflows~\cite{humaneval2025llmjudge, genovese2026artificial}.
 
-Beyond zero-shot performance, the adaptability of on-device models represents a substantial advantage over closed-source systems. Fine-tuning the gpt-oss-20b and Qwen3.5-35B models on general diagnosis data substantially improved their performance, with the fine-tuned Qwen3.5-35B achieving an exact match accuracy of approximately XXX, closely rivaling several much larger frontier models. Crucially, we observed that fine-tuning yielded the most robust improvements when models were trained on synthetic reasoning data generated by a larger, architecturally matched model from the same family (e.g., utilizing Qwen-122B for the Qwen3.5 series, and gpt-oss-120b for the gpt-oss series). Because different model families exhibit intrinsic variations in how they structure logic, this family-matched approach preserves the native reasoning style, preventing formatting clashes and optimizing the assimilation of systematic diagnostic patterns. This result suggests that domain-specific optimization—when aligned with a model's inherent reasoning architecture—can efficiently compensate for smaller model scale~\cite{davis2026medslice, guluzade2025elmtex, wind2025rar}. Fine-tuning also enhanced robustness across radiology subspecialties, yielding more uniform performance and mitigating weaknesses observed in the base models. These findings highlight that clinics can deploy efficient, low-cost, customized AI tools tailored to their specific patient demographics and disease prevalences without compromising data privacy.
+Beyond zero-shot performance, the adaptability of on-device models represents a substantial advantage over closed-source systems. Fine-tuning the gpt-oss-20b and Qwen3.5-35B models on general diagnosis data substantially improved their performance, with the fine-tuned Qwen3.5-35B achieving an exact match accuracy of 88.4\% (95\% CI: 83.3--92.1\%), closely rivaling GPT-5.1 (88.9\%). Crucially, we observed that fine-tuning yielded the most robust improvements when models were trained on synthetic reasoning data generated by a larger, architecturally matched model from the same family (e.g., utilizing Qwen-122B for the Qwen3.5 series, and gpt-oss-120b for the gpt-oss series). Because different model families exhibit intrinsic variations in how they structure logic, this family-matched approach preserves the native reasoning style, preventing formatting clashes and optimizing the assimilation of systematic diagnostic patterns. This result suggests that domain-specific optimization—when aligned with a model's inherent reasoning architecture—can efficiently compensate for smaller model scale~\cite{davis2026medslice, guluzade2025elmtex, wind2025rar}. Fine-tuning also enhanced robustness across radiology subspecialties, yielding more uniform performance and mitigating weaknesses observed in the base models. These findings highlight that clinics can deploy efficient, low-cost, customized AI tools tailored to their specific patient demographics and disease prevalences without compromising data privacy.
 
 Taken together, the experiments in this study highlight three key insights. First, compact on-device LLMs can provide strong general diagnostic reasoning and domain-specific performance. Second, on-device LLMs can approximate expert judgment with surprising fidelity, positioning them as valuable components of locally governed AI ecosystems that support both clinical decision-making and meta-evaluative tasks. Third, fine-tuning plays a critical role in achieving competitive accuracy across diverse subspecialties, allowing healthcare institutions to develop tailored high-performing models from relatively small architectures.
 
